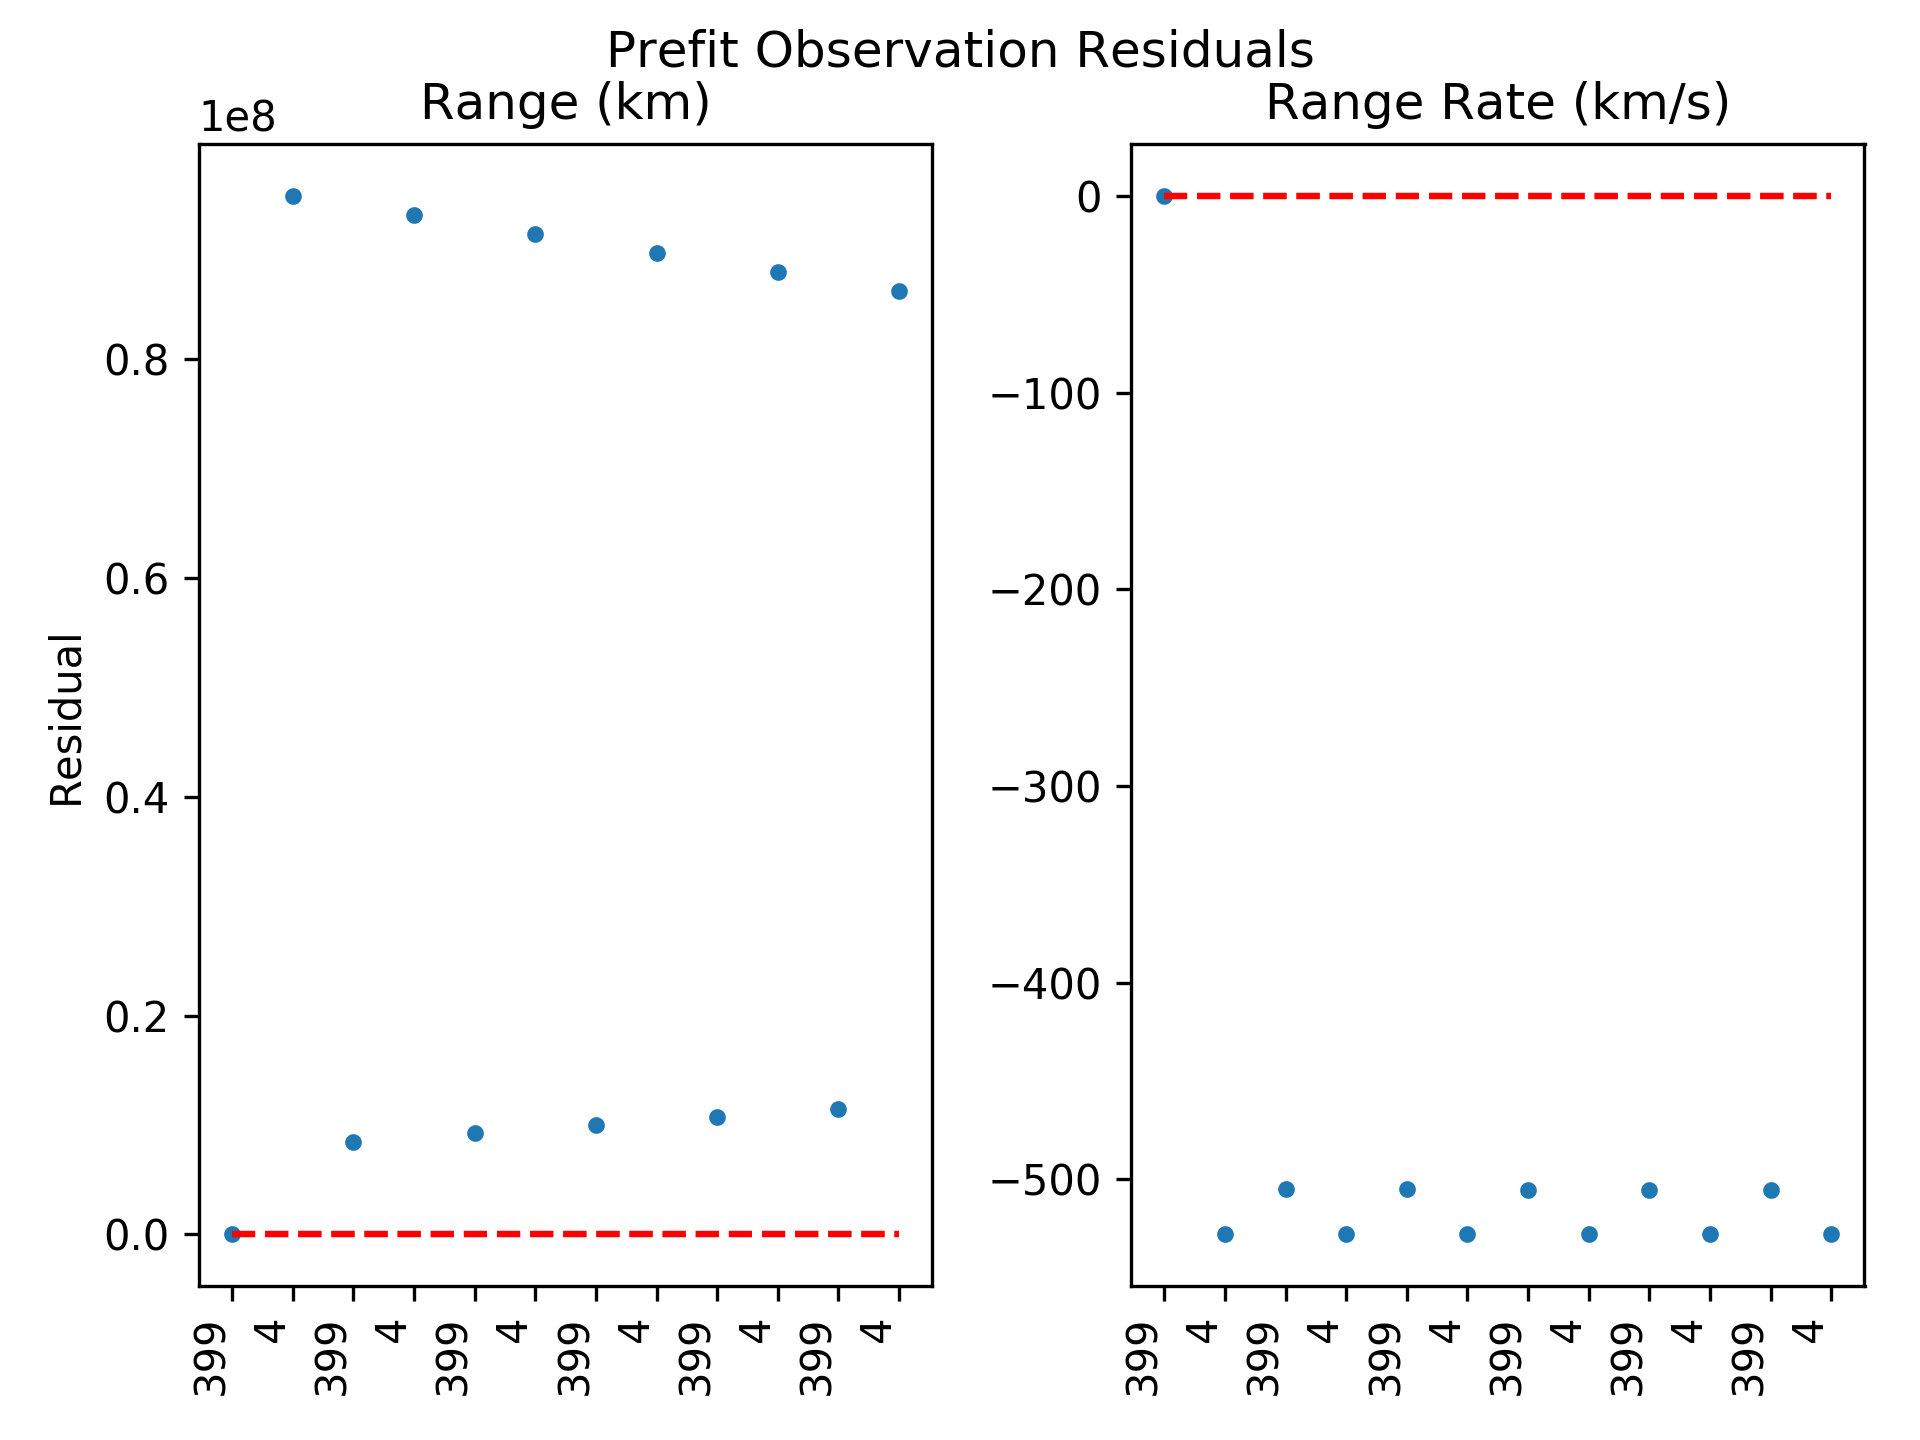
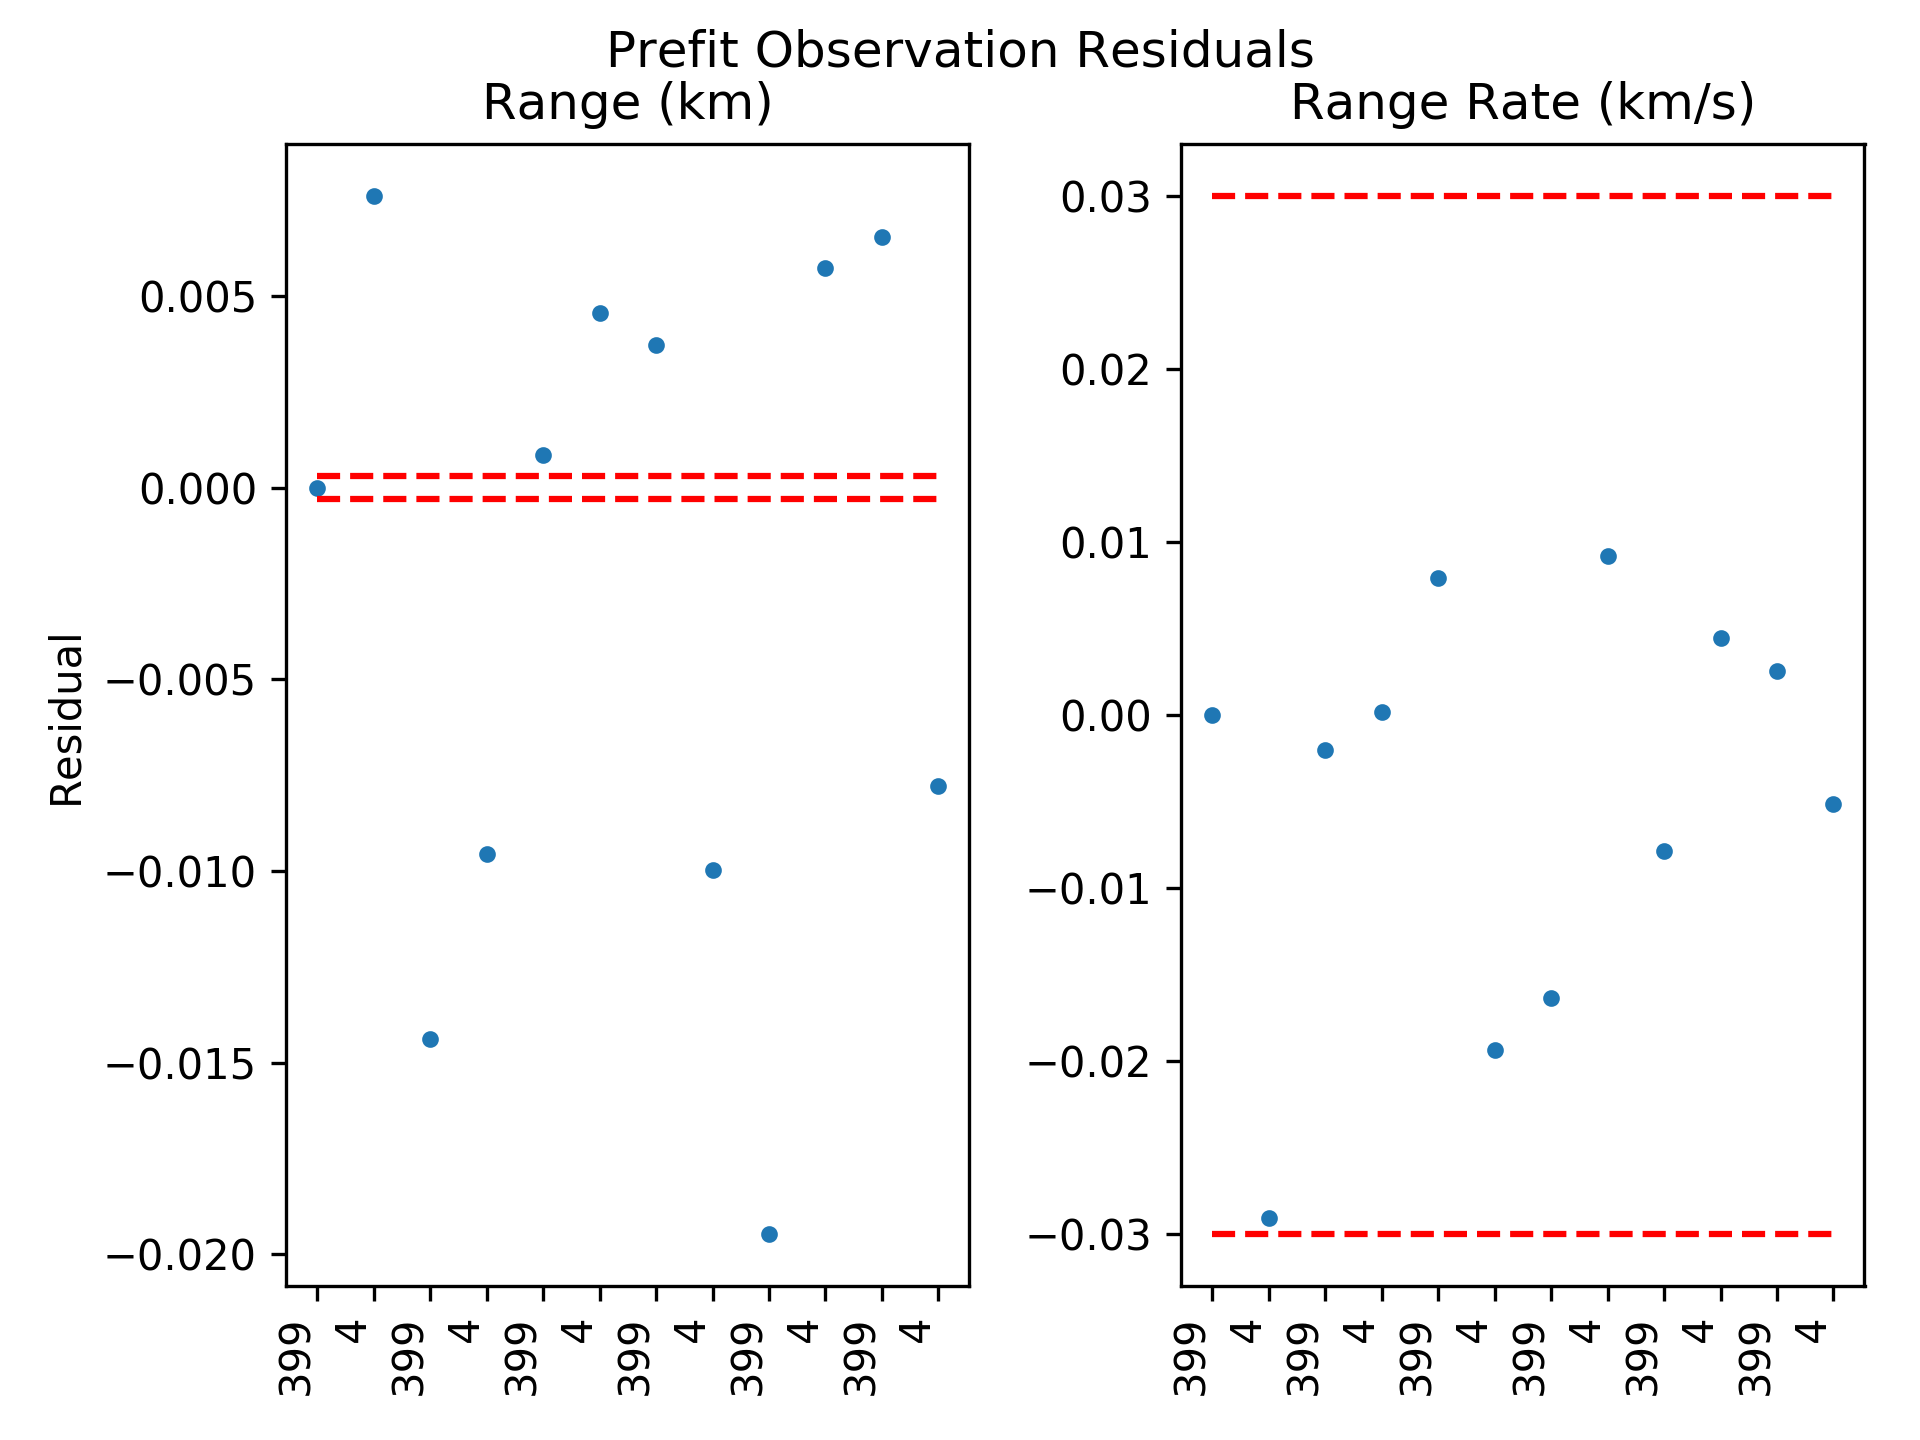
P&L bug found, looks like it's working!

diff --git a/DINObatch/P&L/init.py b/DINObatch/P&L/init.py
@@ -262,19 +262,19 @@ def main():
     P_bar[4, 4] = .1**2
     P_bar[5, 5] = .1**2
 
-    position_error = np.zeros(3)
-    velocity_error = np.zeros(3)
+    # position_error = np.zeros(3)
+    # velocity_error = np.zeros(3)
 
     # add uncertainty to the IC
-    # position_error = 5000 * np.divide(IC[0:3], norm(IC[0:3]))
-    # velocity_error = 0.05 * np.divide(IC[3:6], norm(IC[3:6]))
+    position_error = 5000 * np.divide(IC[0:3], norm(IC[0:3]))
+    velocity_error = 0.05 * np.divide(IC[3:6], norm(IC[3:6]))
 
     IC += np.append(position_error, velocity_error)
 
     # uncertainty to be added in the form of noise to the measurables. Takes the form of variance
     observation_uncertainty = np.identity(2)
-    observation_uncertainty[0, 0] = 0.02 ** 2
-    observation_uncertainty[1, 1] = 0.02 ** 2
+    observation_uncertainty[0, 0] = 0.1 ** 2
+    observation_uncertainty[1, 1] = 0.1 ** 2
 
     # the initial STM is an identity matrix
     phi0 = np.identity(IC.shape[0])
@@ -493,8 +493,8 @@ def main():
 
         plt.subplot(122)
         plt.plot(t_span, prefits[:, 1], '.')
-        plt.plot(t_span, 3*np.ones(len(t_span))*np.sqrt(observation_uncertainty[1, 1]), 'r--')
-        plt.plot(t_span, -3*np.ones(len(t_span))*np.sqrt(observation_uncertainty[1, 1]), 'r--')
+        plt.plot(t_span, 3*np.ones(len(t_span))*np.sqrt(observation_uncertainty[1, 1]**2), 'r--')
+        plt.plot(t_span, -3*np.ones(len(t_span))*np.sqrt(observation_uncertainty[1, 1]**2), 'r--')
         plt.xticks([])
         plt.title('Range Rate (km/s)')
         plt.xticks(t_span, rotation=90, ha='right')
@@ -509,8 +509,8 @@ def main():
         plt.figure(5)
         plt.subplot(121)
         plt.plot(t_span, postfits[:, 0], '.')
-        plt.plot(t_span, 3*np.ones(len(t_span))*np.sqrt(observation_uncertainty[0,0]), 'r--')
-        plt.plot(t_span, -3*np.ones(len(t_span))*np.sqrt(observation_uncertainty[0,0]), 'r--')
+        plt.plot(t_span, 3*np.ones(len(t_span))*np.sqrt(observation_uncertainty[0,0]**2), 'r--')
+        plt.plot(t_span, -3*np.ones(len(t_span))*np.sqrt(observation_uncertainty[0,0]**2), 'r--')
         plt.xticks([])
         plt.ylabel('Residual')
         plt.title('Range (km)')
@@ -520,8 +520,8 @@ def main():
 
         plt.subplot(122)
         plt.plot(t_span, postfits[:, 1], '.')
-        plt.plot(t_span, 3*np.ones(len(t_span))*np.sqrt(observation_uncertainty[1, 1]), 'r--')
-        plt.plot(t_span, -3*np.ones(len(t_span))*np.sqrt(observation_uncertainty[1, 1]), 'r--')
+        plt.plot(t_span, 3*np.ones(len(t_span))*np.sqrt(observation_uncertainty[1, 1]**2), 'r--')
+        plt.plot(t_span, -3*np.ones(len(t_span))*np.sqrt(observation_uncertainty[1, 1]**2), 'r--')
         plt.xticks([])
         plt.title('Range Rate (km/s)')
         plt.xticks(t_span, rotation=90, ha='right')

diff --git a/DINObatch/P&L/beaconBinSPICE.py b/DINObatch/P&L/beaconBinSPICE.py
@@ -19,7 +19,7 @@ __date__ = '$Date$'[7:26]
 
 import numpy as np
 from numpy.random import normal as rndNrm
-from rngRngRtBatch import fncG
+from pixelLineBatch import fncG
 
 ################################################################################
 #                  E X P O R T E D     F U N C T I O N S:
